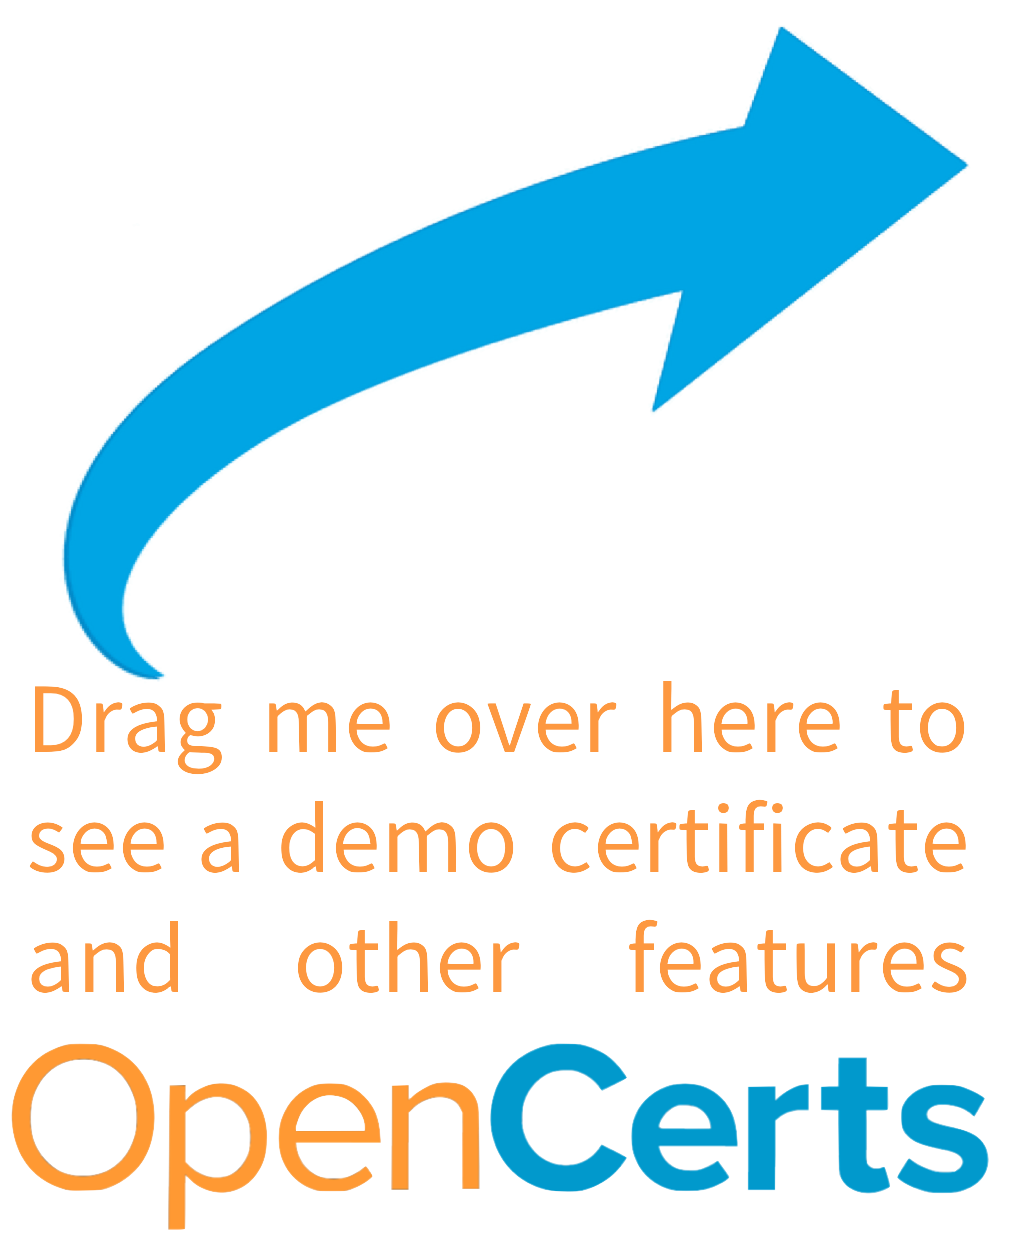
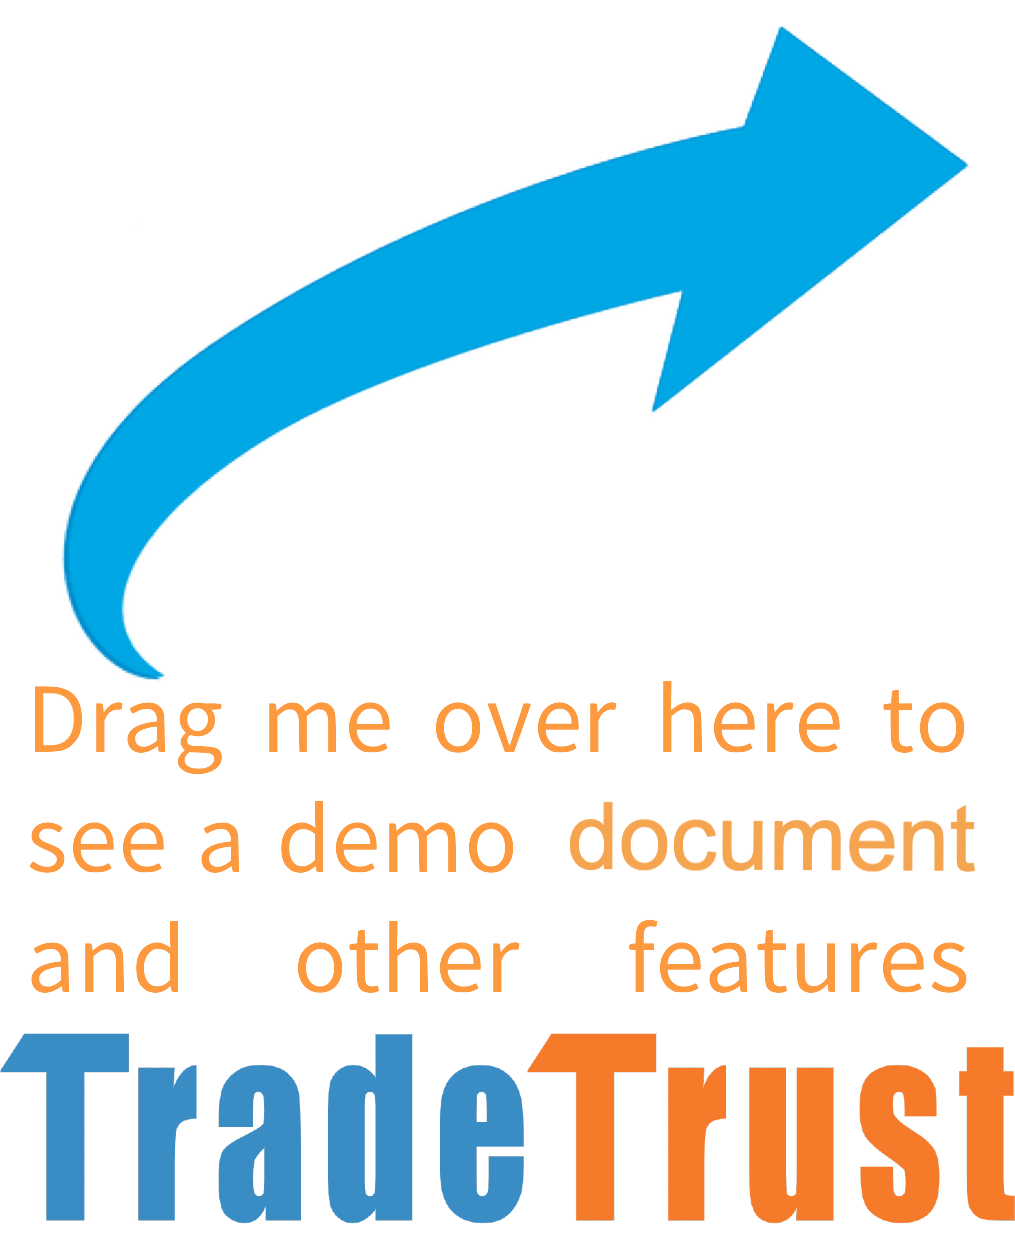
Text change opencert -> tradetrust

Changed region(s): [[0.0, 0.8288, 1.0, 1.0], [0.5192, 0.6446, 0.9773, 0.706]]

diff --git a/src/components/HomePageContent/AboutSection.js b/src/components/HomePageContent/AboutSection.js
@@ -41,17 +41,17 @@ const HowItWorks = () => {
     {
       key: "onetwo",
       text:
-        "When an OpenCerts certificate is created, a unique digital code is tagged to it. This code, together with condensed information from the certificate, is stored on the blockchain."
+        "When a TradeTrust certificate is created, a unique digital code is tagged to it. This code, together with condensed information from the document, is stored on the blockchain."
     },
     {
       key: "three",
       text:
-        "When you open the .opencert file on this site, its contents will be compared with what was stored on the blockchain."
+        "When you open the .tt file on this site, its contents will be compared with what was stored on the blockchain."
     },
     {
       key: "four",
       text:
-        "We'll check if the contents match and if the certificate comes from a recognised insitution.\n\nThis way, you'll know if the certificate is valid when you try to view it."
+        "We'll check if the contents match and if the document comes from a recognised issuer.\n\nThis way, you'll know if the document is valid when you try to view it."
     }
   ];
 
@@ -70,12 +70,6 @@ const HowItWorks = () => {
 };
 
 const AboutSection = () => (
-  <div>
-    <div className="row bg-light" id={css.benefits}>
-      <div className={css.main}>
-        <BenefitsSection />
-      </div>
-    </div>
     <div className="row bg-light" id="how-it-works">
       <div className={css.main}>
         <div className={css.section}>
@@ -84,7 +78,6 @@ const AboutSection = () => (
         </div>
       </div>
     </div>
-  </div>
 );
 
 export default AboutSection;

diff --git a/pages/privacy.js b/pages/privacy.js
@@ -12,7 +12,7 @@ const PAGE_SEO = {
   description:
     "This Privacy Policy must be read in conjunction with the Terms of Use that accompany the applicable service you are requesting from us (the “Service”). In this Privacy Policy, “Public Sector Entities” means the Government (including its ministries, departments and organs of state) and public authorities (such as statutory boards).",
   openGraph: {
-    title: "OpenCerts - Privacy Policy",
+    title: "TradeTrust - Privacy Policy",
     description:
       "This Privacy Policy must be read in conjunction with the Terms of Use that accompany the applicable service you are requesting from us (the “Service”). In this Privacy Policy, “Public Sector Entities” means the Government (including its ministries, departments and organs of state) and public authorities (such as statutory boards).",
     url: `${URL}/privacy`

diff --git a/src/components/CertificateDropZone/Views/DefaultView.js b/src/components/CertificateDropZone/Views/DefaultView.js
@@ -12,21 +12,21 @@ const View = ({ hover, accept }) => (
     <div className={css["image-container"]}>
       <i>
         <img
-          alt=".opencert Dropzone"
+          alt=".tradetrust Dropzone"
           src="/static/images/dropzone/dropzone_illustration.svg"
         />
       </i>
     </div>
     {accept ? null : (
       <div>
-        File cannot be read. Please check that you have a valid .opencert file
+        File cannot be read. Please check that you have a valid .tt or .json file
       </div>
     )}
     <div
       className="text-brand-dark"
       style={{ fontSize: "1.375rem", fontWeight: 500 }}
     >
-      Drag and drop your opencert file
+      Drag and drop your tradetrust file
     </div>
     <div className="text-muted">to view its contents</div>
     <div className="text-muted row">

diff --git a/src/components/HomePageContent/DropZoneSection.js b/src/components/HomePageContent/DropZoneSection.js
@@ -32,7 +32,7 @@ const DraggableDemoCertificate = () => (
         >
           <a
             href={`data:text/plain;,${JSON.stringify(DEMO_CERT, null, 2)}`}
-            download="demo.opencert"
+            download="demo.tt"
           >
             <img
               style={{ cursor: "grabbing" }}
@@ -99,7 +99,7 @@ class DropZoneSection extends Component {
         <div className={css.main}>
           <div className="col-lg-5 col-md-12">
             <div className={css.description}>
-              <h1>An easy way to check and verify your certificates</h1>
+              <h1>An easy way to check and verify your documents</h1>
               <p>
                 Whether you&#39;re a student or an employer, OpenCerts lets you
                 verify the certificates you have of anyone from any institution.

diff --git a/pages/terms.js b/pages/terms.js
@@ -12,7 +12,7 @@ const PAGE_SEO = {
   description:
     'These Terms of Use govern your access to and use of our services, including the application (whether as software or as a website or otherwise), its contents, push notifications and all other accompanying materials as identified in the Schedule below (collectively, the "Service").',
   openGraph: {
-    title: "OpenCerts - Terms of use",
+    title: "TradeTrust - Terms of use",
     description:
       'These Terms of Use govern your access to and use of our services, including the application (whether as software or as a website or otherwise), its contents, push notifications and all other accompanying materials as identified in the Schedule below (collectively, the "Service").',
     url: `${URL}/tou`

diff --git a/src/components/Layout/FooterBar.js b/src/components/Layout/FooterBar.js
@@ -4,22 +4,7 @@ const NavigationBar = () => (
   <div className="bg-brand-dark" id={css["footer-print"]}>
     <div className={css.footer}>
       <div>
-        <a href="/collaborate">Collaborate</a>
-      </div>
-      <div>
-        <a href="/faq">FAQ</a>
-      </div>
-      <div>
-        <a href="/registry">Registry</a>
-      </div>
-      <div>
-        <a href="/privacy">Privacy Policy</a>
-      </div>
-      <div>
-        <a href="/terms">Terms of Use</a>
-      </div>
-      <div>
-        <a href="https://github.com/OpenCerts">Github</a>
+        <a href="https://github.com/TradeTrust">Github</a>
       </div>
     </div>
   </div>

diff --git a/src/components/Layout/NavigationBar/NavigationBar.js b/src/components/Layout/NavigationBar/NavigationBar.js
@@ -6,16 +6,6 @@ const navItems = [
     id: "home",
     label: "Home",
     path: "/"
-  },
-  {
-    id: "collaborate",
-    label: "Collaborate",
-    path: "/collaborate"
-  },
-  {
-    id: "faq",
-    label: "FAQ",
-    path: "/faq"
   }
 ];
 
@@ -39,7 +29,7 @@ const NavigationBar = ({ active }) => (
   >
     <div className={css.innerbar}>
       <a className="navbar-brand" href="/">
-        <img src="/static/images/opencertslogo.svg" alt="OpenCerts" />
+        <img src="/static/images/tradetrust_logo.svg" alt="TradeTrust" />
       </a>
       <button
         className={`${css["navbar-toggler"]} d-none`}

diff --git a/src/config/index.js b/src/config/index.js
@@ -31,8 +31,8 @@ export const INFURA_PROJECT_ID = "1f1ff2b3fca04f8d99f67d465c59e4ef";
 export const LEGACY_OPENCERTS_RENDERER = "https://legacy.opencerts.io/";
 
 export const DEFAULT_SEO = {
-  title: "An easy way to check and verify your certificates",
-  titleTemplate: `OpenCerts - %s`,
+  title: "An easy way to check and verify your documents",
+  titleTemplate: `TradeTrust - %s`,
   description:
     "Whether you're a student or an employer, OpenCerts lets you verify the certificates you have of anyone from any institution. All in one place.",
   openGraph: {

diff --git a/src/utils/logger.js b/src/utils/logger.js
@@ -1,8 +1,8 @@
 import debug from "debug";
 
 // not using .extends because of stupid next.js resolve modules bug where its picking up old version of debug
-export const trace = namespace => debug(`opencerts-website:trace:${namespace}`);
-export const error = namespace => debug(`opencerts-website:error:${namespace}`);
+export const trace = namespace => debug(`tradetrust-website:trace:${namespace}`);
+export const error = namespace => debug(`tradetrust-website:error:${namespace}`);
 
 export const getLogger = namespace => ({
   trace: trace(namespace),

diff --git a/pages/registry.js b/pages/registry.js
@@ -11,7 +11,7 @@ const PAGE_SEO = {
   description:
     "The registry is a list of recognised issuers with their certificate store addresses. Certificates from these issuers can be recognised and verified by our viewer.",
   openGraph: {
-    title: "OpenCerts - Registry",
+    title: "TradeTrust - Registry",
     description:
       "The registry is a list of recognised issuers with their certificate store addresses. Certificates from these issuers can be recognised and verified by our viewer.",
     url: `${URL}/registry`

diff --git a/pages/faq.js b/pages/faq.js
@@ -12,7 +12,7 @@ const PAGE_SEO = {
   description:
     "Have some questions in mind? Here are a list of collated questions and answers that might answer your questions.",
   openGraph: {
-    title: "OpenCerts - Frequently Asked Questions",
+    title: "TradeTrust - Frequently Asked Questions",
     description:
       "Have some questions in mind? Here are a list of collated questions and answers that might answer your questions.",
     url: `${URL}/faq`

diff --git a/src/components/CertificateSharing/CertificateSharingForm.js b/src/components/CertificateSharing/CertificateSharingForm.js
@@ -48,7 +48,7 @@ class CertificateSharingForm extends Component {
               <h4>Send your certificate</h4>
             </div>
             <div className="row text-center">
-              This sends an email with your .opencert attached, and instructions
+              This sends an email with your .tt attached, and instructions
               on how to view it.
             </div>
             <div className="row my-4 d-flex justify-content-center">
